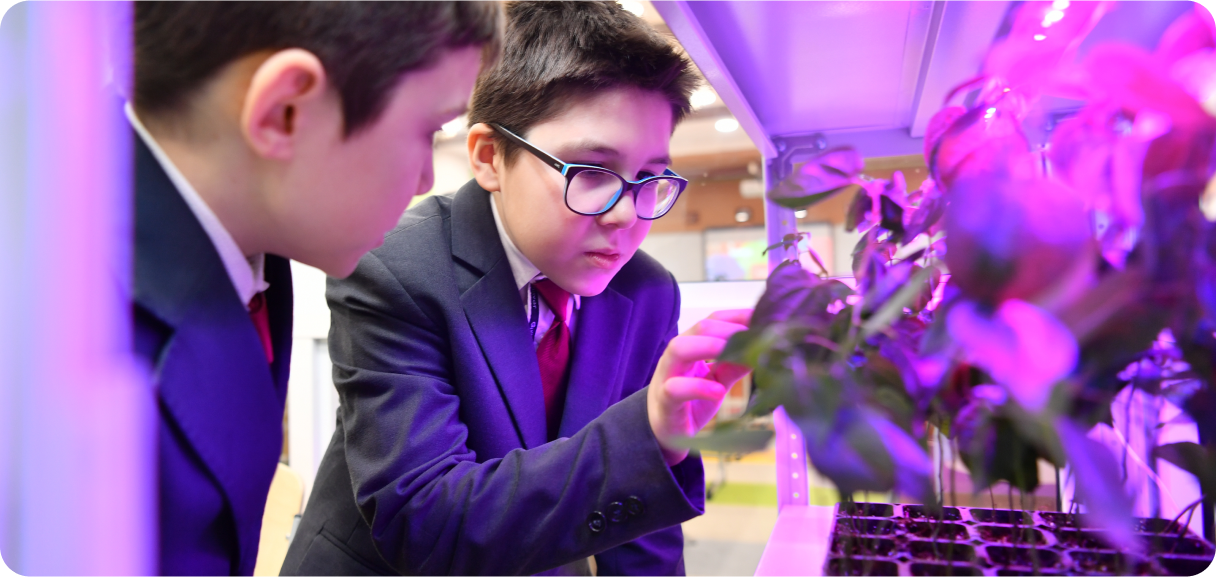
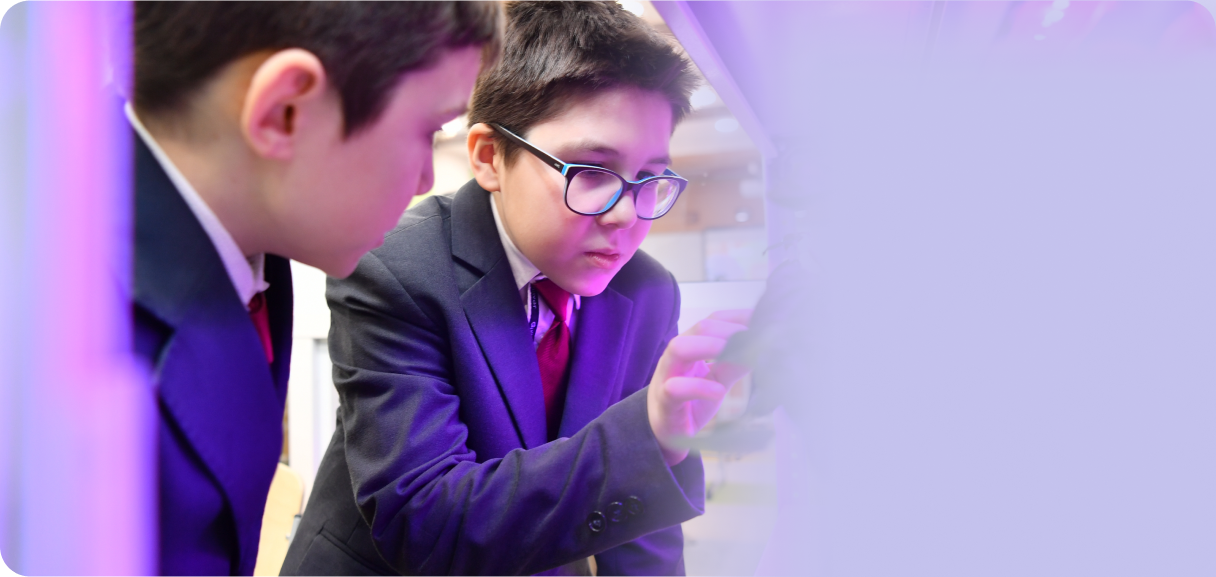
update

diff --git a/src/app/data/banners.ts b/src/app/data/banners.ts
@@ -11,7 +11,7 @@ export interface IBanner {
 
 export const banners: IBanner[] = [
   {
-    title: '3,7 млрд',
+    title: '> 3,7 млрд',
     subtitle: 'тонн',
     description: 'нефти добыто за 75-летнюю историю Компании',
     image: '/banners/1.png',
@@ -21,7 +21,7 @@ export const banners: IBanner[] = [
     background: '#B3CEFA',
   },
   {
-    title: '80 000',
+    title: '> 80 000',
     subtitle: 'сотрудников',
     description: 'в команде “Татнефти”',
     image: '/banners/19.png',
@@ -31,7 +31,7 @@ export const banners: IBanner[] = [
     background: '#f1fedc',
   },
   {
-    title: '400 000',
+    title: '> 400 000',
     subtitle: 'тонн',
     description: 'потенциал Компании по сбору и переработке шин',
     image: '/banners/3.png',
@@ -41,7 +41,7 @@ export const banners: IBanner[] = [
     background: '#161412',
   },
   {
-    title: '42 000',
+    title: '> 42 000',
     subtitle: 'человек',
     description: 'ежегодно получают помощь и поддержку для реализации проектов от Компании',
     image: '/banners/4.png',
@@ -51,7 +51,7 @@ export const banners: IBanner[] = [
     background: '#EF341F',
   },
   {
-    title: '1,5 млн',
+    title: '> 1,5 млн',
     subtitle: 'мальков',
     description: 'выпущено в водоемы в рамках экологических проектов',
     image: '/banners/5.png',
@@ -61,7 +61,7 @@ export const banners: IBanner[] = [
     background: '#4C6F97',
   },
   {
-    title: '145 000',
+    title: '> 145 000',
     subtitle: 'человек',
     description: 'проходят обучение в рамках образовательной экосистемы Компании',
     image: '/banners/6.png',
@@ -71,7 +71,7 @@ export const banners: IBanner[] = [
     background: '#0172F7',
   },
   {
-    title: '29 млн',
+    title: '> 29 млн',
     subtitle: 'деревьев',
     description: 'высажено с 2000 года',
     image: '/banners/7.png',
@@ -81,7 +81,7 @@ export const banners: IBanner[] = [
     background: '#577811',
   },
   {
-    title: '12 000',
+    title: '> 12 000',
     subtitle: 'детей',
     description: 'ежегодно отдыхает в лагерях компании.',
     image: '/banners/8.png',
@@ -131,7 +131,7 @@ export const banners: IBanner[] = [
     background: '#C4C2ED',
   },
   {
-    title: '450 000',
+    title: '> 450 000',
     subtitle: 'растений',
     description: 'выращено школьниками в рамках программы «Школьные биолаборатории»',
     image: '/banners/14.png',
@@ -141,7 +141,7 @@ export const banners: IBanner[] = [
     background: '#416332',
   },
   {
-    title: '116 000',
+    title: '> 116 000',
     subtitle: 'школьников из 1162 школ',
     description: 'участвуют в проекте «Посланники ЦУР «Татнефти»',
     image: '/banners/9.png',
@@ -151,17 +151,17 @@ export const banners: IBanner[] = [
     background: '#3A570A',
   },
   {
-    title: '1100',
+    title: '> 1100',
     subtitle: 'человек',
     description: 'приняли участие в обучающем исследовании экологического проекта Компании «В поисках углеродного следа»',
     image: '/banners/16.png',
     mobImage: '/mob-banners/16.png',
     color: 'white',
-    mobColor: 'black',
+    mobColor: 'white',
     background: '#040B19',
   },
   {
-    title: '2600',
+    title: '> 2600',
     subtitle: 'человек научно-исследовательского персонала',
     description: 'В наших лабораториях мы развиваем промышленные и молекулярные биотехнологии',
     image: '/banners/12.png',

diff --git a/src/app/pages/home/components/banner/banner.component.html b/src/app/pages/home/components/banner/banner.component.html
@@ -14,7 +14,7 @@
         <img [src]="isMobile ? item.mobImage : item.image" [alt]="item.title + ' ' + item.subtitle"/>
         <div class="slide-content" [style.background-color]="isMobile && item.background">
           <div class="hashteg">#ЭтоВсеТатнефть</div>
-          <div class="title">> {{item.title}}</div>
+          <div class="title">{{item.title}}</div>
           <div class="subtitle">{{item.subtitle}}</div>
           <div class="description">{{item.description}}</div>
         </div>
@@ -22,7 +22,7 @@
     </ng-template>
 
     <ng-template pTemplate="footer">
-      <div [class]="'navigators gap-15 ' + banners[page].color">
+      <div [class]="'navigators ' + (isMobile ? banners[page].mobColor : banners[page].color)">
         <button type="button" (click)="prev()" class="mr-10">
           <svg width="22" height="12" viewBox="0 0 22 12" fill="none" xmlns="http://www.w3.org/2000/svg">
             <path d="M19 6H3" stroke-width="1.4" stroke-linecap="square"/>

diff --git a/src/app/pages/home/components/banner/banner.component.scss b/src/app/pages/home/components/banner/banner.component.scss
@@ -23,6 +23,10 @@ app-banner {
     }
   }
 
+  .navigators {
+    display: flex;
+  }
+
   .black {
     .p-carousel-indicator-list {
       .p-carousel-indicator-button {
@@ -208,8 +212,8 @@ app-banner {
 
     .p-carousel-footer {
       position: absolute;
-      right: 400px;
-      bottom: 90px;
+      left: 22px;
+      bottom: 33px;
 
       .black {
         svg path {
